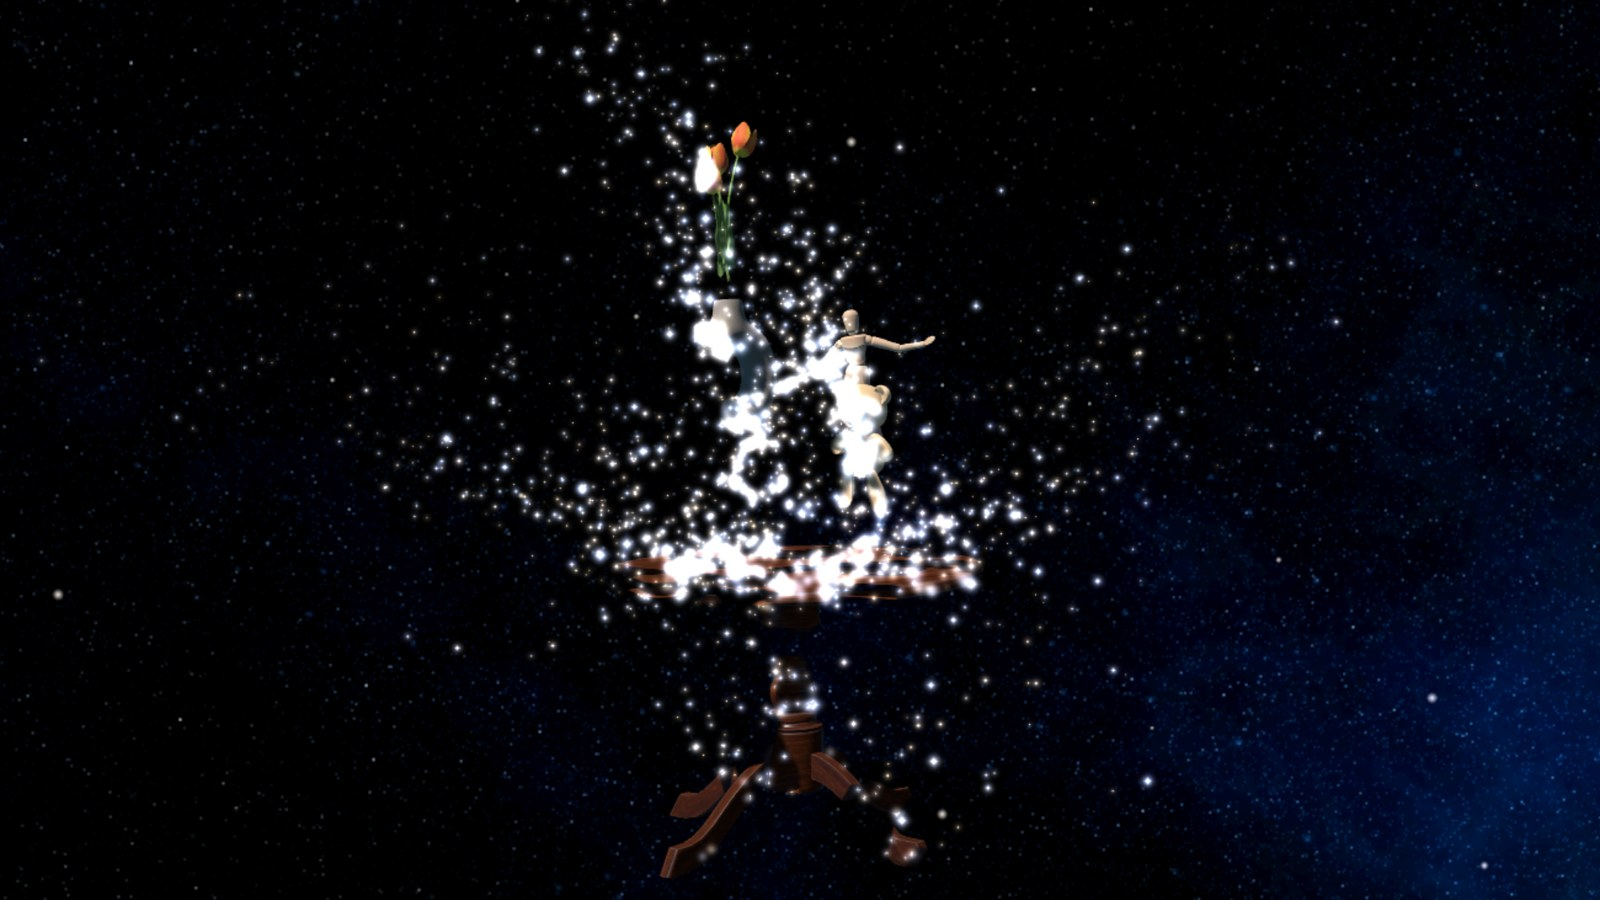
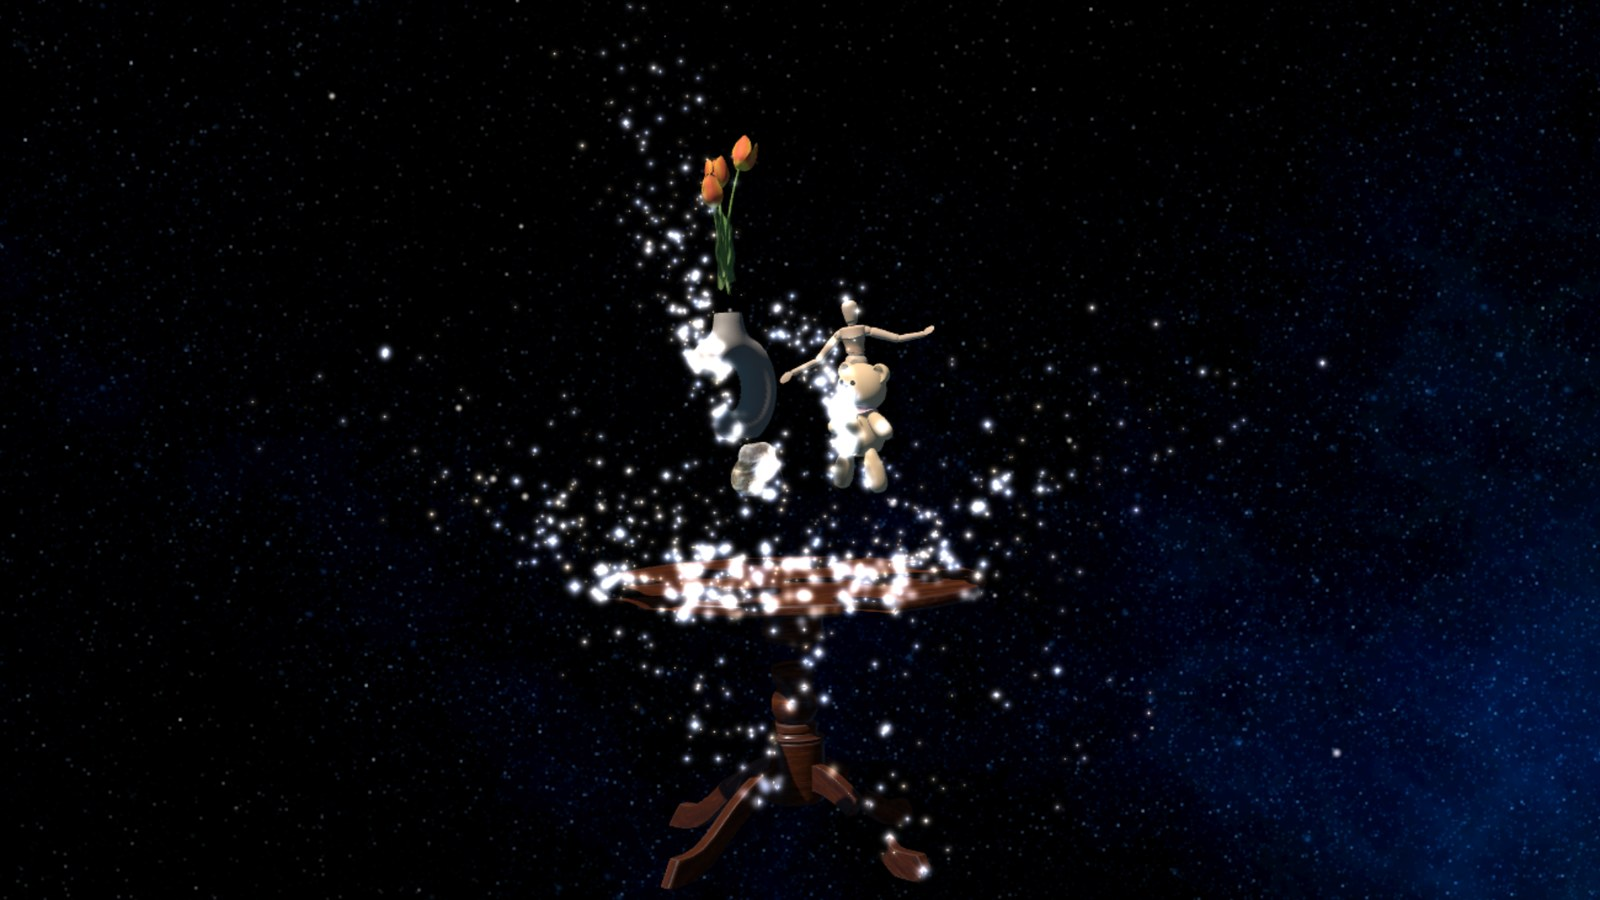
Show the dissolve at 40% and name the cycle in the README
The README screenshot now shows the still life 40% dissolved, so the objects
are still recognisable while the particles stream off. The diagram's heading
is "The cycle of life, in five phases", after the project description.

diff --git a/README.md b/README.md
@@ -1,7 +1,5 @@
 # Unstil Life
 
-A scroll-driven 3D interactive artwork that transitions a classical Still Life room into cosmic space.
-
 **[Live Demo →](https://yeji0205.github.io/unstil-life-yegi-park/)**
 
 <p>
@@ -19,7 +17,7 @@ as human. Their slow disappearance carries the central idea that all things are
 equally transient from a cosmic perspective, appearing briefly and dissolving
 again as part of a continuous cycle.
 
-## The cycle
+## The cycle of life, in five phases
 
 <p align="center">
   <picture>
@@ -61,5 +59,3 @@ Built with [three.js](https://threejs.org). Dissolve technique after Codrops,
 Models from [Sketchfab](https://sketchfab.com), skyboxes from
 [OpenGameArt](https://opengameart.org/content/space-skyboxes-0), textures from
 [Poly Haven](https://polyhaven.com), sounds from [Freesound](https://freesound.org).
-
-Yegi Park, Seminar 3D-Rendering & Computational Art 2026, Hasso Plattner Institute.
